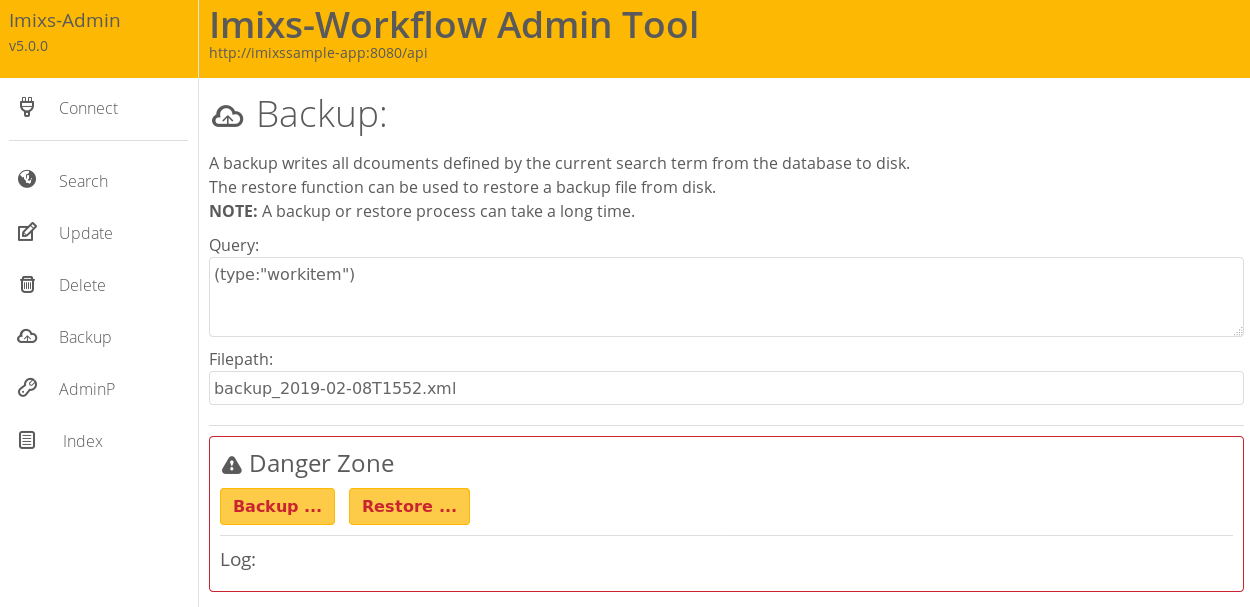
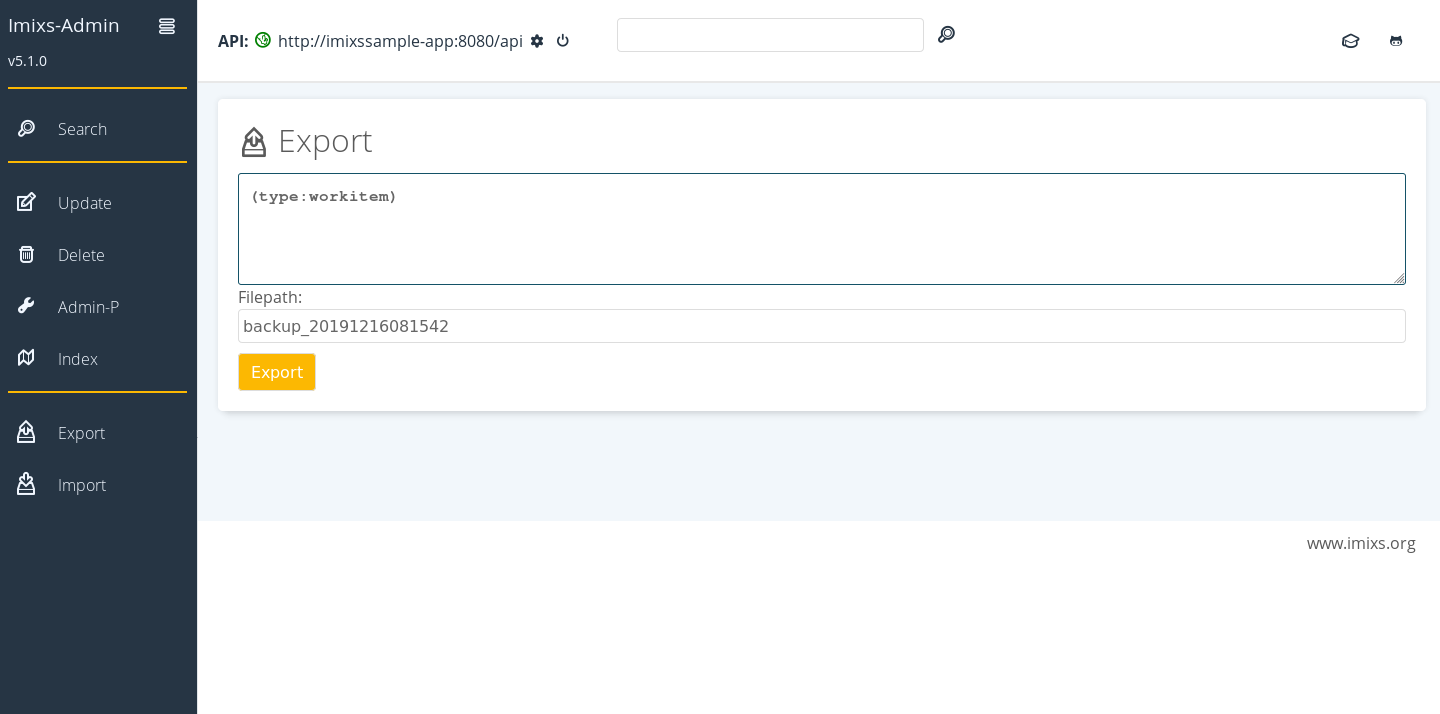
docu

diff --git a/src/site/markdown/administration.md b/src/site/markdown/administration.md
@@ -1,18 +1,34 @@
 # The Imixs Admin Client
-The Imixs Admin Client is a Web Front-End to administrate an instance of the Imixs-Workflow engine. The Client can be connected via the [Imixs Rest API](./restapi/index.html) with an instance of the Imixs-Workflow engine. The Imixs Admin Client can be deployed on any Java EE Server to administrate different instances of the Imixs-Workflow engine running on the same host. 
+The Imixs Admin Client is a Web Front-End to administrate an instance of the Imixs-Workflow engine. The Client connects to an instance of the Imixs-Workflow engine via the [Imixs Rest API](./restapi/index.html). Imixs-Admin runs as a self-contained microservice in a docker container and can also be deployedinto any Jakarta EE Server. 
+
+
  
-##Installation & Deployment
-The sources of the Imixs Admin Client can be download form [GitHub](https://github.com/imixs/imixs-admin/releases). The maven based client supports different web server profiles for GlassFish and JBoss/Wildfly. After the deployment, the Imixs Admin is accessible using the following url:
+## Installation & Deployment
 
-	http://localhost:8080/imixsadmin 
+The sources and the Imixs Admin Client application are available on [GitHub](https://github.com/imixs/imixs-admin/releases). The Imixs-Admin client can be build from source with maven. 
 
-The Imixs Admin Client requires the user to authenticate with a valid security realm. The authenticated user (Administrator) needs at least the the Role "IMIXS-WORKFLOW-Manager". The default security realm used by the Imixs Admin Client is "imixsrealm" which can to be configured on the Application Server. 
+	$ mvn clean install
 
-To connect to an instance of the Imixs-Workflow engine the corresponding Imixs Rest Service URL need to be entered. 
+The artifact '_imixs-worklfow.war_' can be deployed on a Jakarta EE Application server. 
+
+### Docker
+
+The Imixs-Admin client provides also a Docker Image to be used to run the service as a Docker container in a Docker-Swarm or Kubernetes environment. The docker image is available on DockerHub. You can start the latest version of the Imixs-Admin Tool in a docker container:
+
+	$ docker run -p 8888:8080 imixs/imixs-admin
+
+The Imixs-Admin client can be accessed from your web browser:
+
+	http://localhost:8888/
+
+
+## Connecting an Imixs Workflow Instance
+
+Connecting an Imixs-Workflow instance the Rest Service endpoint and administrative user credentials need to be provided. The authenticated user (Administrator) needs at least the the Role '_org.imixs.ACCESSLEVEL.MANAGERACCESS_'. 
 
 <img src="images/imixs-admin-client-01.png" class="screenshot" /> 
  
-Next the client can be connected to the Imixs-Workflow engine to query data using a search terms.
+After the client is connected to the Imixs-Workflow instance you can query data using a lucene search term.
 
 <img src="images/imixs-admin-client-02.png" class="screenshot"/> 
   
@@ -25,12 +41,12 @@ The Imixs Admin Client provides a interface to update or delete entities (Workit
 <img src="images/imixs-admin-client-03.png" /> 
 
 ## The Administration Process
-The Imixs-Workflow engine provides the [administration process 'AdminP'](./engine/adminp.html) which can be used to maintain the documents and process instances managed by the Imixs-Workflow engine. This process can be monitored by the Admin Client
+The Imixs-Workflow engine provides the [administration process 'AdminP'](./engine/adminp.html) used to maintain the documents and process instances managed by the Imixs-Workflow engine. This process can be monitored by the Admin Client
 
 <img src="images/imixs-admin-client-04.png" class="screenshot" /> 
 
 
-The Imixs-Workflow engine provides a set of standard AdminP Job Handlers which can be triggered directly form the Admin UI: 
+The Imixs-Workflow engine provides a set of standard AdminP Job Handlers that can be triggered form the Imixs-Admin UI: 
 
 ### Rebuild the Lucene Index
 
@@ -51,16 +67,15 @@ The new userId can either be replaced with the old one or be appended. The block
 defines the maximum number of workflow documents to be processed in one run. After the blocksize was updated, the job will pause for a given interval specified in minutes.  
 
 
-### Migration
+### Upgrade
 
-The administration process provides a feature to migrate a business application from Imixs-Workflow version 3.x to 4.x. This feature is for migration purpose only. 
+The administration process '_Upgrade_' provides a feature to upgrade a business application from an older version of Imixs-Workflow. This feature is needed for migration purpose only. 
 
 
 ## Backup & Restore
-With the Backup feature it is also possible to export entities into a file system and later re-import them into any exiting workflow instance.
+With the Backup feature data can be exported to a file system and later re-imported into any exiting workflow instance.
 
 <img src="images/imixs-admin-client-05.png" class="screenshot" /> 
 
- 
-To backup a collection of workitems a search term can be specified.
+The target file system is the local filesystem of the workflow instance the Admin-Tool is connected to. The backup of a collection of workitems is based on a lucene search term. 
  
